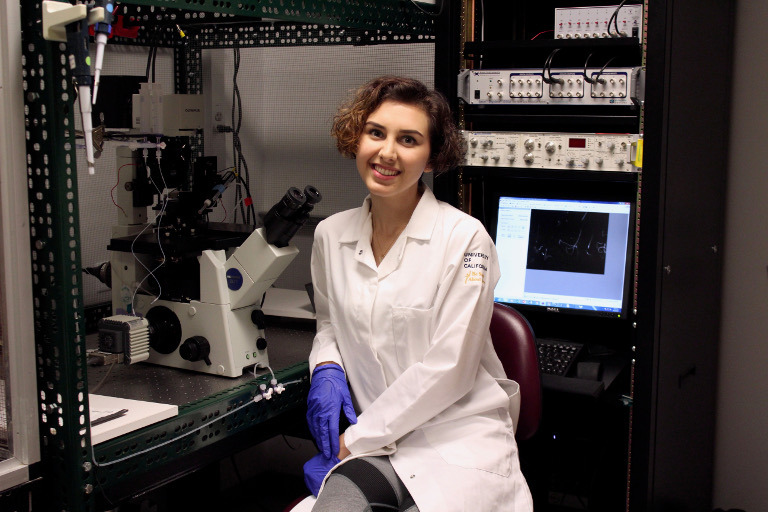
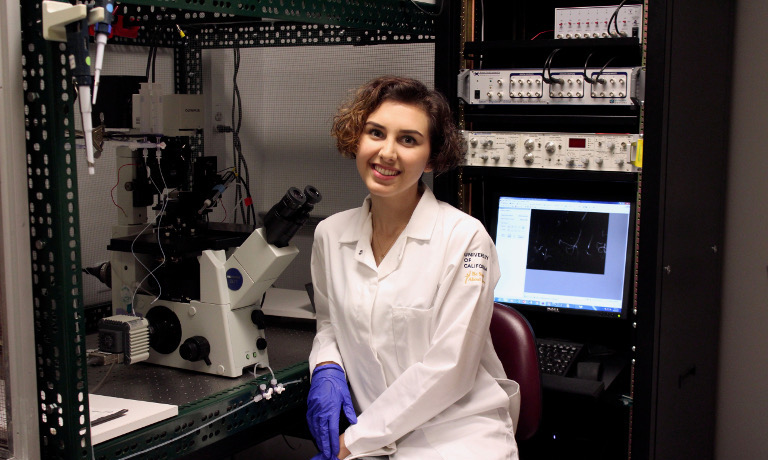
Add one bio + update one bio image

diff --git a/scifiweb/home.py b/scifiweb/home.py
@@ -241,6 +241,20 @@ MEMBERS = (
             day hopes to pursue his dream of working for NASA.
         """),
     ),
+    Member(
+        'cswerdlick',
+        'Chase Swerdlick',
+        (),
+        dedent("""
+            Chase comes to us from the faraway town of Cromwell, CT. From an
+            early age, he was consistently drawn to the uncertainty and
+            certainty that came with science. He is currently pursuing a degree
+            in Molecular and Cellular Neurobiology at UC Berkeley and hopes to
+            attend medical school after he graduates in 2020. In his free time,
+            Chase de-stresses by getting on the ice and shooting some hockey
+            pucks.
+        """)
+    )
 )
 
 
